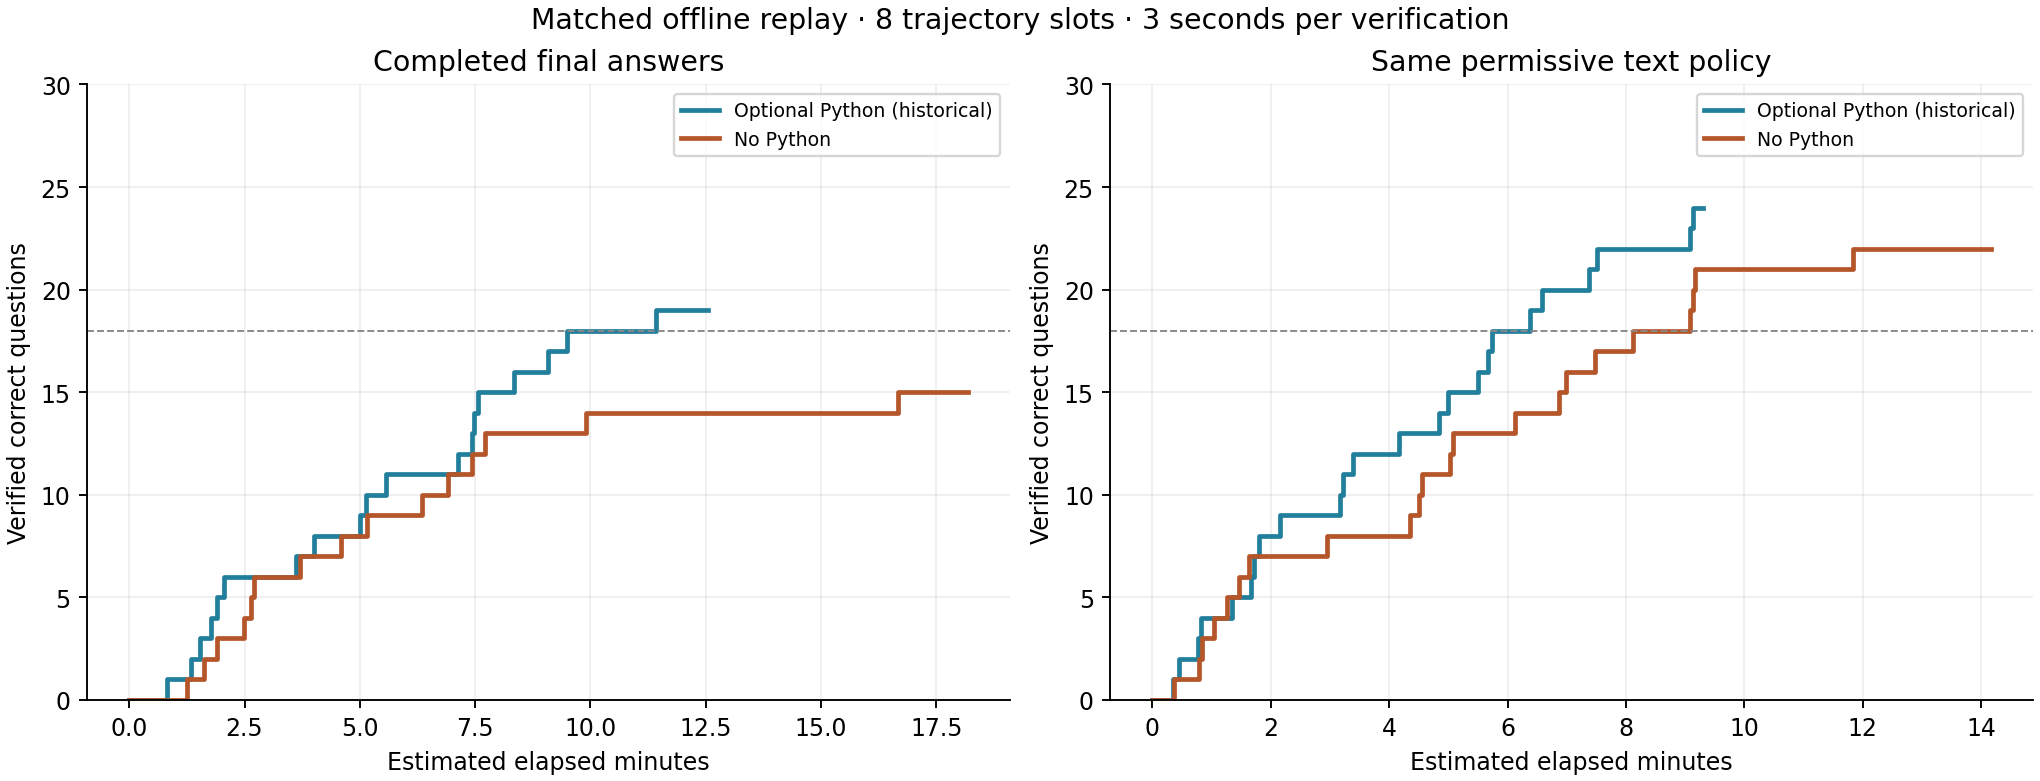
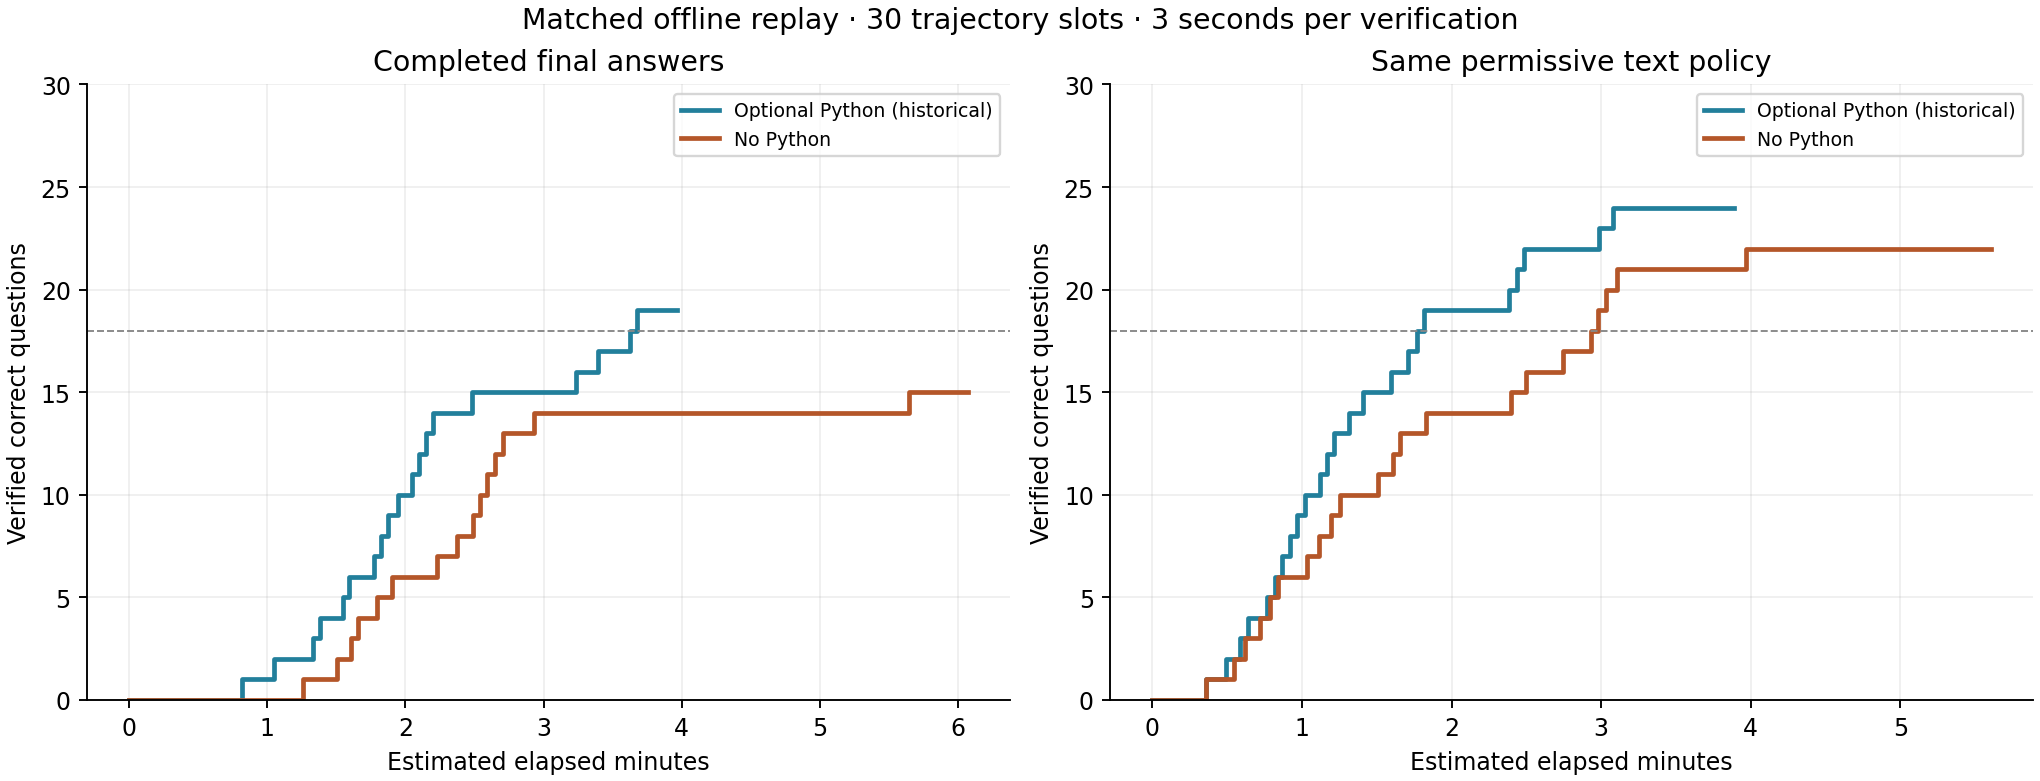
Use 30 trajectory slots for the matched replay report

diff --git a/src/experiments/python_tools/report_no_python_early_verify_v1.py b/src/experiments/python_tools/report_no_python_early_verify_v1.py
@@ -19,6 +19,8 @@ from src.experiments.python_tools.backtest_python_early_verify import (
 from src.experiments.python_tools.no_python_baseline_v1 import baseline_request
 from src.verification_replay import simulate
 
+REPORT_SLOTS = 30
+
 
 def replay(rows):
     final_questions = sorted({r['problem_idx'] for r in rows if r['final_correct']})
@@ -82,6 +84,7 @@ def render(run):
                     'The Python-stdout extension is identical to the text policy in this arm because there are no tool outputs.']
     result.update(run=str(run.relative_to(ROOT)), traces=len(rows), questions=len(config['questions']),
                   samples=[1, 2], tokenizer=tokenizer_meta, assumptions=assumptions,
+                  primary_generation_slots=REPORT_SLOTS,
                   reference_run=str(reference_dir.relative_to(ROOT)))
     atomic_json(output/'summary.json', result)
     inventory = deepcopy(rows)
@@ -91,6 +94,7 @@ def render(run):
     atomic_json(output/'candidate_inventory.json', {'rows': inventory})
     atomic_json(output/'config.json', {'runner_version': 'report_no_python_early_verify_v1',
         'tokenizer': tokenizer_meta, 'generation_slots': [60, 30, 8], 'service_s': 3,
+        'primary_generation_slots': REPORT_SLOTS,
         'policies': list(POLICIES), 'historical_replay_reproduced': True,
         'source_sha256': {name: hashlib.sha256((ROOT/name).read_bytes()).hexdigest() for name in [
             'src/answer_extraction.py', 'src/verification_replay.py',
@@ -99,7 +103,7 @@ def render(run):
     def duration(value):
         return 'target unmet' if value is None else f'{value/60:.2f} min'
     lines = ['# Matched intermediate-answer extraction: no Python versus optional Python', '',
-             'Same permissive text extraction from reasoning and content, same cached Qwen3.5 tokenizer, and same shared FIFO verifier: three seconds per distinct question-answer pair. All negative checks cost three seconds and leave inference running. The historical replay results were reproduced exactly.', '',
+             f'Primary comparison: **{REPORT_SLOTS} concurrent trajectory slots** in the offline replay. Same permissive text extraction from reasoning and content, same cached Qwen3.5 tokenizer, and same shared FIFO verifier: three seconds per distinct question-answer pair. All negative checks cost three seconds and leave inference running. The historical replay results were reproduced exactly.', '',
              '| Answer policy | Historical optional Python | No Python |', '|---|---:|---:|',
              f'| Strict final answers | {len(historical["final_correct_questions"])}/30 | {len(result["final_correct_questions"])}/30 |']
     for policy in ('markers', 'permissive', 'permissive_tools'):
@@ -107,25 +111,28 @@ def render(run):
     lines += ['', '## Estimated time to 18 verified correct questions', '',
               '| Capacity | Policy | Historical optional Python | No Python |', '|---|---|---:|---:|']
     for old, new in zip(historical['replays'], result['replays'], strict=True):
+        if new['generation_slots'] != REPORT_SLOTS:
+            continue
         lines.append(f'| {new["generation_slots"]} | {LABELS[new["policy"]]} | {duration(old["time_to_18_s"])} | {duration(new["time_to_18_s"])} |')
-    lines += ['', '![Eight-slot comparison](comparison.png)', '',
+    lines += ['', f'![{REPORT_SLOTS}-slot comparison](comparison.png)', '',
               '## Fixed observed starts, with no rescheduling or cancellation', '',
               '| Policy | Historical optional Python | No Python |', '|---|---:|---:|']
     for old, new in zip(historical['observed_start_shadow'], result['observed_start_shadow'], strict=True):
         lines.append(f'| {LABELS[new["policy"]]} | {duration(old["time_to_18_s"])} | {duration(new["time_to_18_s"])} |')
     lines += ['', f'Newly recovered no-tool questions under the same permissive text policy: {result["recovered_questions"]["permissive"]}.', '',
-              '## Eight-slot verification load', '',
+              f'## {REPORT_SLOTS}-slot verification load', '',
               '| Policy | Correct questions | Checks before 18 | Wrong checks | Peak pending checks |', '|---|---:|---:|---:|---:|']
     for r in result['replays']:
-        if r['generation_slots'] == 8:
+        if r['generation_slots'] == REPORT_SLOTS:
             lines.append(f'| {LABELS[r["policy"]]} | {r["correct_questions"]} | {r["checks_before_18"]} | {r["wrong_checks"]} | {r["peak_pending_checks"]} |')
     lines += ['', '## Limits', '',
-              'This is an offline replay using saved answers as a perfect-verifier stand-in. Intermediate arrival times are estimated from token fractions in non-streaming responses. No live intermediate grading, early cancellation, or billing savings occurred. Actual hosted durations come from different run dates. A target-unmet policy is not ranked.', '',
+              'This is an offline replay using saved answers as a perfect-verifier stand-in. Intermediate arrival times are estimated from token fractions in non-streaming responses. No live intermediate grading, early cancellation, or billing savings occurred. The original inference runs used eight concurrent trajectories; the 30-slot replay reuses their saved trajectory durations. Actual hosted durations come from different run dates. A target-unmet policy is not ranked. Alternate capacity scenarios remain in summary.json.', '',
               'Python stdout is an additional policy for the historical arm; the baseline has no stdout. The main permissive comparison uses the unchanged text policy in both arms.', '',
               'Candidate inventories retain incorrect and hypothetical proposals. Correctness annotations are added after extraction and simulation; candidates are not selected using the answer key.', '',
               'Reproduce:', '', '```sh',
               f'.venv/bin/python -m src.experiments.python_tools.report_no_python_early_verify_v1 --run {run.relative_to(ROOT)}', '```', '']
     os.environ['MPLCONFIGDIR'] = str(output/'.mplconfig')
+    os.environ['XDG_CACHE_HOME'] = str(output/'.cache')
     import matplotlib
     matplotlib.use('Agg')
     import matplotlib.pyplot as plt
@@ -133,7 +140,7 @@ def render(run):
     for ax, policy in zip(axes, ('final', 'permissive')):
         for arm, label, color in [(historical, 'Optional Python (historical)', '#227f9b'),
                                   (result, 'No Python', '#b45629')]:
-            r = next(r for r in arm['replays'] if r['generation_slots'] == 8 and r['policy'] == policy)
+            r = next(r for r in arm['replays'] if r['generation_slots'] == REPORT_SLOTS and r['policy'] == policy)
             end = max(max(s['natural_end_s'] for s in r['generation_starts']),
                       max((m['time_s'] for m in r['milestones']), default=0))/60
             xs = [0]+[m['time_s']/60 for m in r['milestones']]+[end]
@@ -144,15 +151,16 @@ def render(run):
         ax.legend(fontsize=8)
         ax.grid(alpha=.2)
         ax.spines[['top', 'right']].set_visible(False)
-    fig.suptitle('Matched offline replay · 8 trajectory slots · 3 seconds per verification')
+    fig.suptitle(f'Matched offline replay · {REPORT_SLOTS} trajectory slots · 3 seconds per verification')
     fig.savefig(output/'comparison.png', dpi=170)
     plt.close(fig)
     (output/'report.md').write_text('\n'.join(lines))
-    (output/'README.md').write_text('# No-Python intermediate-answer replay\n\nSame extractor, tokenizer, and verifier settings as the historical tool arm. See [paired report](report.md). Timing is an offline estimate; no live cancellation occurred.\n')
+    (output/'README.md').write_text(f'# No-Python intermediate-answer replay\n\nPrimary comparison: {REPORT_SLOTS} concurrent trajectory slots. Same extractor, tokenizer, and verifier settings as the historical tool arm. See [paired report](report.md). Timing is an offline estimate from the original eight-trajectory inference runs; no live cancellation occurred.\n')
     print(json.dumps({'coverage': result['coverage'], 'recovered_questions': result['recovered_questions'],
                      'historical_replay_reproduced': True,
-                     'eight_slots': [{k:r[k] for k in ['policy', 'correct_questions', 'time_to_18_s', 'wrong_checks']}
-                                    for r in result['replays'] if r['generation_slots'] == 8]}, indent=2))
+                     'report_slots': REPORT_SLOTS,
+                     'primary_replay': [{k:r[k] for k in ['policy', 'correct_questions', 'time_to_18_s', 'wrong_checks']}
+                                       for r in result['replays'] if r['generation_slots'] == REPORT_SLOTS]}, indent=2))
 
 
 if __name__ == '__main__':

diff --git a/runs/no-python-qwen35-pass2-parasail-20261003/early_verify_pass2/report.md b/runs/no-python-qwen35-pass2-parasail-20261003/early_verify_pass2/report.md
@@ -1,6 +1,6 @@
 # Matched intermediate-answer extraction: no Python versus optional Python
 
-Same permissive text extraction from reasoning and content, same cached Qwen3.5 tokenizer, and same shared FIFO verifier: three seconds per distinct question-answer pair. All negative checks cost three seconds and leave inference running. The historical replay results were reproduced exactly.
+Primary comparison: **30 concurrent trajectory slots** in the offline replay. Same permissive text extraction from reasoning and content, same cached Qwen3.5 tokenizer, and same shared FIFO verifier: three seconds per distinct question-answer pair. All negative checks cost three seconds and leave inference running. The historical replay results were reproduced exactly.
 
 | Answer policy | Historical optional Python | No Python |
 |---|---:|---:|
@@ -13,20 +13,12 @@ Same permissive text extraction from reasoning and content, same cached Qwen3.5 
 
 | Capacity | Policy | Historical optional Python | No Python |
 |---|---|---:|---:|
-| 60 | Completed final answers | 3.39 min | target unmet |
-| 60 | Boxes / Answer: lines | 3.23 min | target unmet |
-| 60 | Same permissive text policy | 1.27 min | 2.12 min |
-| 60 | Permissive + Python totals | 1.27 min | 2.12 min |
 | 30 | Completed final answers | 3.63 min | target unmet |
 | 30 | Boxes / Answer: lines | 3.62 min | target unmet |
 | 30 | Same permissive text policy | 1.77 min | 2.93 min |
 | 30 | Permissive + Python totals | 1.77 min | 2.93 min |
-| 8 | Completed final answers | 9.50 min | target unmet |
-| 8 | Boxes / Answer: lines | 9.50 min | target unmet |
-| 8 | Same permissive text policy | 5.73 min | 8.11 min |
-| 8 | Permissive + Python totals | 5.70 min | 8.11 min |
 
-![Eight-slot comparison](comparison.png)
+![30-slot comparison](comparison.png)
 
 ## Fixed observed starts, with no rescheduling or cancellation
 
@@ -39,18 +31,18 @@ Same permissive text extraction from reasoning and content, same cached Qwen3.5 
 
 Newly recovered no-tool questions under the same permissive text policy: [2, 7, 11, 12, 25, 27, 29].
 
-## Eight-slot verification load
+## 30-slot verification load
 
 | Policy | Correct questions | Checks before 18 | Wrong checks | Peak pending checks |
 |---|---:|---:|---:|---:|
-| Completed final answers | 15 | None | 0 | 1 |
-| Boxes / Answer: lines | 15 | None | 0 | 1 |
-| Same permissive text policy | 22 | 25 | 7 | 5 |
-| Permissive + Python totals | 22 | 25 | 7 | 5 |
+| Completed final answers | 15 | None | 0 | 2 |
+| Boxes / Answer: lines | 15 | None | 0 | 2 |
+| Same permissive text policy | 22 | 19 | 7 | 5 |
+| Permissive + Python totals | 22 | 19 | 7 | 5 |
 
 ## Limits
 
-This is an offline replay using saved answers as a perfect-verifier stand-in. Intermediate arrival times are estimated from token fractions in non-streaming responses. No live intermediate grading, early cancellation, or billing savings occurred. Actual hosted durations come from different run dates. A target-unmet policy is not ranked.
+This is an offline replay using saved answers as a perfect-verifier stand-in. Intermediate arrival times are estimated from token fractions in non-streaming responses. No live intermediate grading, early cancellation, or billing savings occurred. The original inference runs used eight concurrent trajectories; the 30-slot replay reuses their saved trajectory durations. Actual hosted durations come from different run dates. A target-unmet policy is not ranked. Alternate capacity scenarios remain in summary.json.
 
 Python stdout is an additional policy for the historical arm; the baseline has no stdout. The main permissive comparison uses the unchanged text policy in both arms.
 

diff --git a/runs/no-python-qwen35-pass2-parasail-20261003/early_verify_pass2/README.md b/runs/no-python-qwen35-pass2-parasail-20261003/early_verify_pass2/README.md
@@ -1,3 +1,3 @@
 # No-Python intermediate-answer replay
 
-Same extractor, tokenizer, and verifier settings as the historical tool arm. See [paired report](report.md). Timing is an offline estimate; no live cancellation occurred.
+Primary comparison: 30 concurrent trajectory slots. Same extractor, tokenizer, and verifier settings as the historical tool arm. See [paired report](report.md). Timing is an offline estimate from the original eight-trajectory inference runs; no live cancellation occurred.
